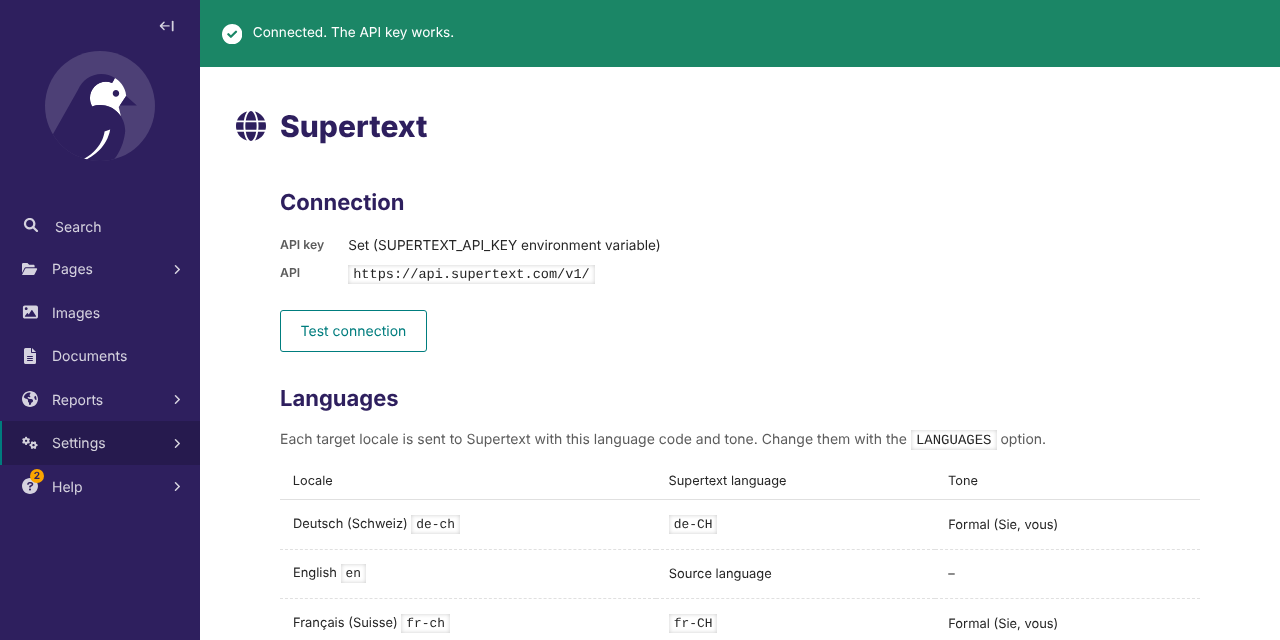
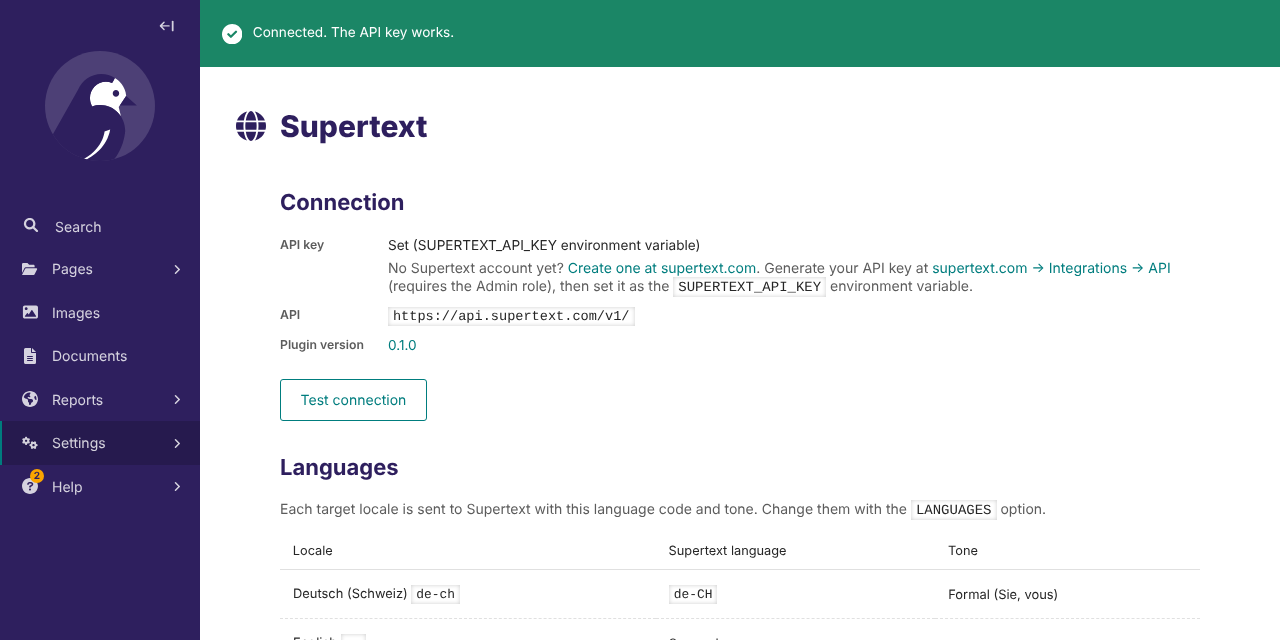
Show the plugin version on Settings → Supertext
The page shows wagtail_supertext.__version__, linked to the GitHub
release when it is X.Y.Z. German string added, docs, changelog and the
settings screenshot updated.

Claude-Session: https://claude.ai/code/session_01EnSTWcWHurd9UcMU2SVApV

diff --git a/wagtail_supertext/templates/wagtail_supertext/status.html b/wagtail_supertext/templates/wagtail_supertext/status.html
@@ -22,6 +22,8 @@
       </dd>
       <dt>{% trans "API" %}</dt>
       <dd><code>{{ options.base_url }}</code></dd>
+      <dt>{% trans "Plugin version" %}</dt>
+      <dd>{% if version_url %}<a href="{{ version_url }}" target="_blank" rel="noopener">{{ version }}</a>{% else %}{{ version }}{% endif %}</dd>
     </dl>
     <form method="post">
       {% csrf_token %}

diff --git a/wagtail_supertext/views.py b/wagtail_supertext/views.py
@@ -2,6 +2,8 @@
 
 from __future__ import annotations
 
+import re
+
 from django.conf import settings
 from django.contrib import messages
 from django.core.exceptions import PermissionDenied
@@ -10,8 +12,18 @@ from django.template.response import TemplateResponse
 from django.utils.translation import gettext as _
 from wagtail.models import Locale
 
-from . import conf
+from . import __version__, conf
 from .client import API_KEY_URL, SIGNUP_URL, SupertextError
+
+
+RELEASES_URL = "https://github.com/Supertext/Wagtail-Supertext-Translation/releases/tag/v{version}"
+
+
+def release_url(version: str) -> str | None:
+    """Link to the GitHub release when the version looks like one (X.Y.Z)."""
+    if re.fullmatch(r"\d+\.\d+\.\d+", version or ""):
+        return RELEASES_URL.format(version=version)
+    return None
 
 
 def status(request):
@@ -53,5 +65,7 @@ def status(request):
             "locales": locales,
             "signup_url": SIGNUP_URL,
             "api_key_url": API_KEY_URL,
+            "version": __version__,
+            "version_url": release_url(__version__),
         },
     )

diff --git a/tests/test_translator.py b/tests/test_translator.py
@@ -126,3 +126,17 @@ def test_status_page(client, monkeypatch):
     assert response.status_code == 200
     html = response.content.decode()
     assert "Set (Django settings)" in html and "https://api.supertext.com/v1/" in html and "fr-CH" in html
+
+
+def test_status_page_shows_version(client):
+    from wagtail_supertext import __version__
+    from wagtail_supertext.views import release_url
+
+    user = get_user_model().objects.create_superuser("admin", "admin@example.com", "pw")
+    client.force_login(user)
+    html = client.get("/admin/supertext/").content.decode()
+    assert "Plugin version" in html and __version__ in html
+    if release_url(__version__):
+        assert f'href="https://github.com/Supertext/Wagtail-Supertext-Translation/releases/tag/v{__version__}"' in html
+    assert release_url("1.2.3").endswith("/releases/tag/v1.2.3")
+    assert release_url("1.2.3.dev0") is None

diff --git a/docs/INSTALLATION.md b/docs/INSTALLATION.md
@@ -60,9 +60,9 @@ wagtail-localize uses one machine translator per site; this replaces DeepL or Go
 
 ## 3. Check it works
 
-As a superuser, open **Settings → Supertext** in the Wagtail admin and click **Test connection**. *Connected. The API key works.* means everything is in place. The page also lists which Supertext language code and tone each locale gets.
+As a superuser, open **Settings → Supertext** in the Wagtail admin and click **Test connection**. *Connected. The API key works.* means everything is in place. The page also shows the installed plugin version (linked to its release notes on GitHub) and lists which Supertext language code and tone each locale gets.
 
-![Settings → Supertext: API key set from the SUPERTEXT_API_KEY environment variable, API https://api.supertext.com/v1/, the Test connection button with the message Connected. The API key works., and the languages table: Deutsch (Schweiz) de-CH formal, English source language, Français (Suisse) fr-CH formal](images/settings-supertext.png)
+![Settings → Supertext: API key set from the SUPERTEXT_API_KEY environment variable, API https://api.supertext.com/v1/, Plugin version 0.1.0, the Test connection button with the message Connected. The API key works., and the languages table: Deutsch (Schweiz) de-CH formal, English source language, Français (Suisse) fr-CH formal](images/settings-supertext.png)
 
 From the command line:
 

diff --git a/docs/DEVELOPER.md b/docs/DEVELOPER.md
@@ -29,7 +29,7 @@ StringTranslation rows (tool name "Supertext"), the editor reviews and publishes
 | `document.py` | Builds/parses the HTML document (BeautifulSoup), chunking |
 | `conf.py` | Reads `WAGTAILLOCALIZE_MACHINE_TRANSLATOR["OPTIONS"]` plus `SUPERTEXT_API_KEY` / `SUPERTEXT_API_ENDPOINT`; Wagtail language code → Supertext code (`de-ch` → `de-CH`) and tone |
 | `errors.py` | Wraps wagtail-localize's `machine_translate` view (installed in `AppConfig.ready()`): a `SupertextError` becomes an error message in the editor instead of an HTTP 500 |
-| `views.py`, `wagtail_hooks.py`, `templates/` | *Settings → Supertext* (superusers): configuration, language table, *Test connection* |
+| `views.py`, `wagtail_hooks.py`, `templates/` | *Settings → Supertext* (superusers): configuration, plugin version (read from `wagtail_supertext.__version__`, linked to the GitHub release when it is X.Y.Z), language table, *Test connection* |
 | `management/commands/supertext_check.py` | `python manage.py supertext_check` |
 | `locale/de/` | German admin strings |
 

diff --git a/CHANGELOG.md b/CHANGELOG.md
@@ -4,6 +4,8 @@ All notable changes to this project are documented here.
 
 ## Unreleased
 
+- *Settings → Supertext* shows the plugin version, linked to its release notes on GitHub.
+
 ## 0.1.0 — 2026-10-07
 
 - *Settings → Supertext*, the "No Supertext API key" and "Authentication failed" messages, the installation guide and the README now link to Supertext account signup and API key generation (supertext.com → Integrations → API, Admin role required).
